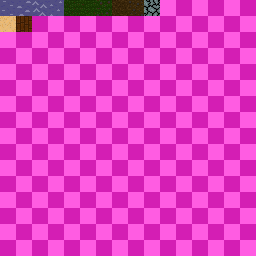
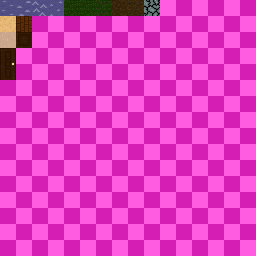
Add tiles

Changed region(s): [[0.0, 0.125, 0.125, 0.3125]]

diff --git a/RPG/Editor/States/MapEditorTileEditState.cs b/RPG/Editor/States/MapEditorTileEditState.cs
@@ -90,6 +90,22 @@ namespace TeamStor.RPG.Editor.States
 			get { return false; }
 		}
 
+        private bool LayerContainsValidTiles(Tile.MapLayer layer)
+        {
+            List<string> tiles = new List<string>();
+            foreach(Tile tile in Tile.Values(layer))
+            {
+                if(tile.Filter(BaseState.Map.Info.Environment))
+                {
+                    if(tiles.Count > 0 && tile.ID - Tile.FindByName(tiles[tiles.Count - 1], layer, BaseState.Map.Info.Environment).ID > 1)
+                        tiles.Add(SelectionMenu.SPACING);
+                    tiles.Add(tile.Name("", BaseState.Map.Info.Environment));
+                }
+            }
+
+            return tiles.Count > 0;
+        }
+
         private void UpdateSelectTileMenu(bool doTween = false)
         {
             if(BaseState.SelectionMenus.ContainsKey("select-tile-menu"))
@@ -100,9 +116,9 @@ namespace TeamStor.RPG.Editor.States
             {
                 if(tile.Filter(BaseState.Map.Info.Environment))
                 {
-                    if(tiles.Count > 0 && tile.ID - Tile.FindByName(tiles[tiles.Count - 1], _layer).ID > 1)
+                    if(tiles.Count > 0 && tile.ID - Tile.FindByName(tiles[tiles.Count - 1], _layer, BaseState.Map.Info.Environment).ID > 1)
                         tiles.Add(SelectionMenu.SPACING);
-                    tiles.Add(tile.Name());
+                    tiles.Add(tile.Name("", BaseState.Map.Info.Environment));
                 }
             }
 
@@ -174,9 +190,10 @@ namespace TeamStor.RPG.Editor.States
 				Position = new TweenedVector2(Game, new Vector2(-250, 119 + 31 + 32 * 3)),
 				
 				Active = false,
-				Clicked = (btn) => { 					
-					_layer = Tile.MapLayer.Decoration;
-					UpdateSelectTileMenu();
+                Disabled = !LayerContainsValidTiles(Tile.MapLayer.Decoration),
+                Clicked = (btn) => {
+                    _layer = Tile.MapLayer.Decoration;
+                    UpdateSelectTileMenu();
 				},
 				Font = Game.DefaultFonts.Normal
 			});
@@ -190,7 +207,8 @@ namespace TeamStor.RPG.Editor.States
 				Position = new TweenedVector2(Game, new Vector2(-250, 119 + 31 + 32 * 4)),
 				
 				Active = false,
-				Clicked = (btn) => { 					
+                Disabled = !LayerContainsValidTiles(Tile.MapLayer.NPC),
+                Clicked = (btn) => { 					
 					_layer = Tile.MapLayer.NPC;
 					UpdateSelectTileMenu();
 				},
@@ -206,7 +224,8 @@ namespace TeamStor.RPG.Editor.States
 				Position = new TweenedVector2(Game, new Vector2(-250, 119 + 31 + 32 * 5)),
 				
 				Active = false,
-				Clicked = (btn) => { 					
+                Disabled = !LayerContainsValidTiles(Tile.MapLayer.Control),
+                Clicked = (btn) => { 					
 					_layer = Tile.MapLayer.Control;
 					UpdateSelectTileMenu();
 				},
@@ -320,7 +339,7 @@ namespace TeamStor.RPG.Editor.States
 		        {
 			        case EditTool.PaintOne:
 				        if(Input.Mouse(MouseButton.Left))
-							BaseState.Map[_layer, SelectedTile.X, SelectedTile.Y] = Tile.FindByName(BaseState.SelectionMenus["select-tile-menu"].SelectedValue, _layer).ID;
+							BaseState.Map[_layer, SelectedTile.X, SelectedTile.Y] = Tile.FindByName(BaseState.SelectionMenus["select-tile-menu"].SelectedValue, _layer, BaseState.Map.Info.Environment).ID;
 				        break;
 				        
 			        case EditTool.PaintRectangle:
@@ -331,7 +350,7 @@ namespace TeamStor.RPG.Editor.States
 					        for(int x = _rectangleToolRect.X; x <= _rectangleToolRect.X + _rectangleToolRect.Width; x++)
 					        {
 						        for(int y = _rectangleToolRect.Y; y <= _rectangleToolRect.Y + _rectangleToolRect.Height; y++)
-                                    BaseState.Map[_layer, x, y] = Tile.FindByName(BaseState.SelectionMenus["select-tile-menu"].SelectedValue, _layer).ID;
+                                    BaseState.Map[_layer, x, y] = Tile.FindByName(BaseState.SelectionMenus["select-tile-menu"].SelectedValue, _layer, BaseState.Map.Info.Environment).ID;
                             }
 
                             _startingTile = new Point(-1, -1);
@@ -400,7 +419,7 @@ namespace TeamStor.RPG.Editor.States
 					if(!(_tool == EditTool.PaintRectangle && _startingTile.X != -1))
 					{
 						string str = "(" + SelectedTile.X + ", " + SelectedTile.Y + ") ";
-						str += "[" + Tile.Find(BaseState.Map[_layer, SelectedTile.X, SelectedTile.Y], _layer).Name(BaseState.Map.GetMetadata(_layer, SelectedTile.X, SelectedTile.Y)) + "]";
+						str += "[" + Tile.Find(BaseState.Map[_layer, SelectedTile.X, SelectedTile.Y], _layer).Name(BaseState.Map.GetMetadata(_layer, SelectedTile.X, SelectedTile.Y), BaseState.Map.Info.Environment) + "]";
 
 						Vector2 pos = new Vector2(SelectedTile.X * 16, SelectedTile.Y * 16) * BaseState.Camera.Zoom + BaseState.Camera.Translation -
 						              new Vector2(0, 12 * BaseState.Camera.Zoom);

diff --git a/RPG/Map/Tiles.cs b/RPG/Map/Tiles.cs
@@ -1,4 +1,5 @@
 using Microsoft.Xna.Framework;
+using TeamStor.Engine;
 using TeamStor.RPG.Gameplay;
 
 namespace TeamStor.RPG
@@ -11,7 +12,29 @@ namespace TeamStor.RPG
         #region Terrain
         public static class Terrain
 		{
-			public static Tile Water = new AnimatedTile(0, Tile.MapLayer.Terrain, "Water", new Point(0, 0), 4, 2, true);
+            public class WaterTile : AnimatedTile
+            {
+                public WaterTile(byte id, MapLayer layer, string name, Point firstSlot, int slotCount, int fps, bool solid = false, int transitionPriority = 1000) : base(id, layer, name, firstSlot, slotCount, fps, solid, transitionPriority)
+                {
+                }
+
+                public override string Name(string metadata = "", Map.Environment environment = Map.Environment.Forest)
+                {
+                    if(environment == Map.Environment.Inside)
+                        return "The Void";
+                    return base.Name(metadata, environment);
+                }
+
+                public override void Draw(Engine.Game game, Point mapPos, Map map, string metadata, Map.Environment environment, Color? color = null)
+                {
+                    if(environment == Map.Environment.Inside)
+                        game.Batch.Rectangle(new Rectangle(mapPos.X * 16, mapPos.Y * 16, 16, 16), Color.Black);
+                    else
+                        base.Draw(game, mapPos, map, metadata, environment, color);
+                }
+            }
+
+            public static Tile Water = new WaterTile(0, Tile.MapLayer.Terrain, "Water", new Point(0, 0), 4, 2, true);
 
             public static Tile Grass = new VariationsTile(10, Tile.MapLayer.Terrain, "Grass", 
                 new Point[] {
@@ -45,9 +68,11 @@ namespace TeamStor.RPG
 			});
 			public static Tile Stone = new Tile(12, Tile.MapLayer.Terrain, "Stone", new Point(9, 0), true);
 			
-			public static Tile Wood = new Tile(20, Tile.MapLayer.Terrain, "Wood", new Point(1, 1), true, -1);
-			
-			public static Tile RoadCity = new Tile(50, Tile.MapLayer.Terrain, "Road (City)", new Point(0, 1), false, 500);
+			public static Tile Wood = new InsideTile(20, Tile.MapLayer.Terrain, "Wood", new Point(1, 1), true, -1);
+            public static Tile WoodenPanel = new InsideTile(21, Tile.MapLayer.Terrain, "Wooden Panel", new Point(1, 2), true, -1);
+            public static Tile HouseWall = new InsideTile(22, Tile.MapLayer.Terrain, "Wall", new Point(0, 2), true, -1);
+
+            public static Tile RoadCity = new Tile(50, Tile.MapLayer.Terrain, "Road (City)", new Point(0, 1), false, 500);
         }
         #endregion
 
@@ -56,7 +81,21 @@ namespace TeamStor.RPG
 		{
 			public static Tile Empty = new Tile(0, Tile.MapLayer.Decoration, "Empty", new Point(0, 0));
 			
-			public static Tile Tree = new DoubleTile(10, Tile.MapLayer.Decoration, "Tree", new Point(0, 1), true);
+            public class TreeTile : DoubleTile
+            {
+                public TreeTile(byte id, MapLayer layer, string name, Point textureSlot, bool solid = false, int transitionPriority = 1000) : base(id, layer, name, textureSlot, solid, transitionPriority)
+                {
+                }
+
+                public override Point TextureSlot(string metadata = "", Map.Environment environment = Map.Environment.Forest)
+                {
+                    if(environment == Map.Environment.SnowMountain)
+                        return base.TextureSlot(metadata, environment) + new Point(0, 2);
+                    return base.TextureSlot(metadata, environment);
+                }
+            }
+
+			public static Tile Tree = new TreeTile(10, Tile.MapLayer.Decoration, "Tree", new Point(0, 1), true);
 			
 			public static Tile Wood = new TransitionIntoTerrainTile(20, Tile.MapLayer.Decoration, "Wood", new Point(2, 0), true);
             public static Tile Brick = new Tile(21, Tile.MapLayer.Decoration, "Brick", new Point(3, 0), true);

diff --git a/RPG/Editor/Button.cs b/RPG/Editor/Button.cs
@@ -41,10 +41,11 @@ namespace TeamStor.RPG.Editor
         }
 
         public bool Active;
+        public bool Disabled = false;
 
         public void Update(Game game)
         {
-            bool hovered = !Active && Rectangle.Contains(game.Input.MousePosition);
+            bool hovered = !Active && Rectangle.Contains(game.Input.MousePosition) && !Disabled;
 
             if(hovered && game.Input.MousePressed(MouseButton.Left) && Clicked != null)
                 Clicked(this);
@@ -53,15 +54,15 @@ namespace TeamStor.RPG.Editor
         public void Draw(Game game)
         {
             SpriteBatch batch = game.Batch;
-            bool hovered = Active || Rectangle.Contains(game.Input.MousePosition);
+            bool hovered = (Active || Rectangle.Contains(game.Input.MousePosition)) && !Disabled;
 
             batch.Rectangle(Rectangle, Color.Black * 0.8f * Alpha);
 
             if(Icon != null)
-                batch.Texture(new Vector2(Position.Value.X + 4, Position.Value.Y + 4), Icon, Color.White * (hovered ? 1f : 0.6f) * Alpha);
+                batch.Texture(new Vector2(Position.Value.X + 4, Position.Value.Y + 4), Icon, Color.White * (hovered ? 1f : 0.6f) * Alpha * (Disabled ? 0.6f : 1.0f));
 
             if(Text != "")
-                batch.Text(Font, 15, Text, new Vector2(Position.Value.X + (Icon != null ? Icon.Width + 8 : 4), Position.Value.Y + 6), Color.White * (hovered ? 1f : 0.6f) * Alpha);
+                batch.Text(Font, 15, Text, new Vector2(Position.Value.X + (Icon != null ? Icon.Width + 8 : 4), Position.Value.Y + 6), Color.White * (hovered ? 1f : 0.6f) * Alpha * (Disabled ? 0.6f : 1.0f));
         }
     }
 }

diff --git a/RPG/Map/Tile.cs b/RPG/Map/Tile.cs
@@ -92,7 +92,7 @@ namespace TeamStor.RPG
         /// <returns>
         /// The name of the tile used in the map editor.
         /// </returns>
-        public virtual string Name(string metadata = "")
+        public virtual string Name(string metadata = "", Map.Environment environment = Map.Environment.Forest)
         {
             if(metadata != "")
                 return _name + " (" + metadata + ")";
@@ -171,7 +171,10 @@ namespace TeamStor.RPG
         /// <returns>If this tile is allowed in a specified environment.</returns>
         public virtual bool Filter(Map.Environment environment)
         {
-            return true;
+            // A tile with ID 0 always exists
+            if(ID == 0 || Layer == MapLayer.Control)
+                return true;
+            return environment != Map.Environment.Inside;
         }
         
         /// <param name="metadata">Metadata for the tile being accessed.</param>
@@ -275,11 +278,11 @@ namespace TeamStor.RPG
         /// <param name="name">The name of the tile without metadata.</param>
         /// <param name="layer">The layer the tile belongs to.</param>
         /// <returns>The tile, or an exception.</returns>
-        public static Tile FindByName(string name, MapLayer layer)
+        public static Tile FindByName(string name, MapLayer layer, Map.Environment environment = Map.Environment.Forest)
         {
             foreach(Tile tile in LayerToDictionary(layer).Values)
             {
-                if(tile.Name() == name)
+                if(tile.Name("", environment) == name)
                     return tile;
             }
 

diff --git a/RPG/Gameplay/World/WorldState.cs b/RPG/Gameplay/World/WorldState.cs
@@ -34,14 +34,31 @@ namespace TeamStor.RPG.Gameplay.World
             get; private set;
         }
 
+        private List<NPC> _npcs = new List<NPC>();
+
         /// <summary>
         /// NPCs in the world.
         /// </summary>
-        public List<NPC> NPCs
+        public IReadOnlyList<NPC> NPCs
         {
-            get;
-            private set;
-        } = new List<NPC>();
+            get
+            {
+                return _npcs;
+            }
+        }
+
+        /// <summary>
+        /// Spawns a new NPC in the world.
+        /// </summary>
+        /// <param name="template">The template to create the NPC from.</param>
+        /// <param name="position">The position to spawn the NPC at.</param>
+        /// <returns>The newly spawned NPC.</returns>
+        public NPC SpawnNPC(NPCTemplate template, Point position)
+        {
+            NPC npc = new NPC(this, template);
+            npc.MoveInstantly(position);
+            return npc;
+        }
 
         /// <summary>
         /// Map of the world.
@@ -93,6 +110,8 @@ namespace TeamStor.RPG.Gameplay.World
 
             Map.Draw(Tile.MapLayer.Terrain, Game, new Rectangle((int)-Camera.Offset.X, (int)-Camera.Offset.Y, (int)screenSize.X, (int)screenSize.Y));
 
+            foreach(NPC npc in NPCs)
+                npc.Draw(batch);
             Player.Draw(batch);
 
             Map.Draw(Tile.MapLayer.Decoration, Game, new Rectangle((int)-Camera.Offset.X, (int)-Camera.Offset.Y, (int)screenSize.X, (int)screenSize.Y));

diff --git a/RPG/Gameplay/World/NPC.cs b/RPG/Gameplay/World/NPC.cs
@@ -1,8 +1,13 @@
-using System;
+using Microsoft.Xna.Framework;
+using Microsoft.Xna.Framework.Graphics;
+using System;
 using System.Collections.Generic;
 using System.Linq;
 using System.Text;
 using System.Threading.Tasks;
+using TeamStor.Engine.Graphics;
+
+using SpriteBatch = TeamStor.Engine.Graphics.SpriteBatch;
 
 namespace TeamStor.RPG.Gameplay.World
 {
@@ -16,8 +21,32 @@ namespace TeamStor.RPG.Gameplay.World
         public const string LEFT_TEXTURE = "npc/{name}/left{i}.png";
         public const string RIGHT_TEXTURE = "npc/{name}/right{i}.png";
 
-        public NPC(WorldState world) : base(world)
+        /// <summary>
+        /// Template this NPC was created from.
+        /// </summary>
+        public NPCTemplate Template
         {
+            get; private set;
+        }
+
+        public NPC(WorldState world, NPCTemplate template) : base(world)
+        {
+            Template = template;
+        }
+
+        public void Update(double deltaTime, double totalTime, long count)
+        {
+        }
+
+        public void Draw(SpriteBatch batch)
+        {
+            int frame = 0;
+            if(IsWalking)
+                frame = ((int)World.Game.TotalFixedUpdates / 10);
+
+            Texture2D texture = Template.TextureForDirection(World.Game, Heading, frame);
+
+            batch.Texture(WorldPosition, texture, Color.White);
         }
     }
 }

diff --git a/RPG/Editor/States/MapEditorEditInfoState.cs b/RPG/Editor/States/MapEditorEditInfoState.cs
@@ -3,6 +3,7 @@ using Microsoft.Xna.Framework.Graphics;
 using System;
 using TeamStor.Engine;
 using TeamStor.Engine.Tween;
+using System.Linq;
 using SpriteBatch = TeamStor.Engine.Graphics.SpriteBatch;
 
 namespace TeamStor.RPG.Editor.States
@@ -74,7 +75,7 @@ namespace TeamStor.RPG.Editor.States
 	            Game = Game,
                 Label = "Environment",
                 Choices = Enum.GetNames(typeof(Map.Environment)),
-                Choice = (int)BaseState.Map.Info.Environment,
+                Choice = Enum.GetValues(typeof(Map.Environment)).Cast<Map.Environment>().ToList().IndexOf(BaseState.Map.Info.Environment),
                 Font = Game.DefaultFonts.Bold,
                 Icon = Assets.Get<Texture2D>("editor/info/environment.png"),
                 Position = new TweenedVector2(Game, new Vector2(Game.GraphicsDevice.Viewport.Width / 2 - 150, Game.GraphicsDevice.Viewport.Height / 2 - 72 + 36 * 2)),

diff --git a/RPG/Map/Tiles/InsideTile.cs b/RPG/Map/Tiles/InsideTile.cs
@@ -1,0 +1,24 @@
+using System;
+using System.Collections.Generic;
+using System.Linq;
+using System.Text;
+using System.Threading.Tasks;
+using Microsoft.Xna.Framework;
+
+namespace TeamStor.RPG
+{
+    /// <summary>
+    /// Tile that's inside instead of outside.
+    /// </summary>
+    public class InsideTile : Tile
+    {
+        public InsideTile(byte id, MapLayer layer, string name, Point textureSlot, bool solid = false, int transitionPriority = 1000) : base(id, layer, name, textureSlot, solid, transitionPriority)
+        {
+        }
+
+        public override bool Filter(Map.Environment environment)
+        {
+            return environment == Map.Environment.Inside;
+        }
+    }
+}

diff --git a/RPG/Map/TileTransitionCache.cs b/RPG/Map/TileTransitionCache.cs
@@ -76,7 +76,7 @@ namespace TeamStor.RPG
 
 			_cachedTransitions.Add(tile.UniqueIdentity(metadata, environment), transition);
 			
-			Console.WriteLine("Generated transition for " + tile.Name(metadata) + " in environment " + environment + " (metadata: \"" + metadata + "\")");
+			Console.WriteLine("Generated transition for " + tile.Name(metadata, environment) + " in environment " + environment + " (metadata: \"" + metadata + "\")");
 		}
 		
 		public Game Game

diff --git a/RPG/Gameplay/NPCTemplate.cs b/RPG/Gameplay/NPCTemplate.cs
@@ -36,6 +36,11 @@ namespace TeamStor.RPG.Gameplay
                     color.HasValue ? color.Value : Color.White);
             }
 
+            public override bool Filter(Map.Environment environment)
+            {
+                return true;
+            }
+
             /// <summary>
             /// Template this tile originates from.
             /// </summary>
